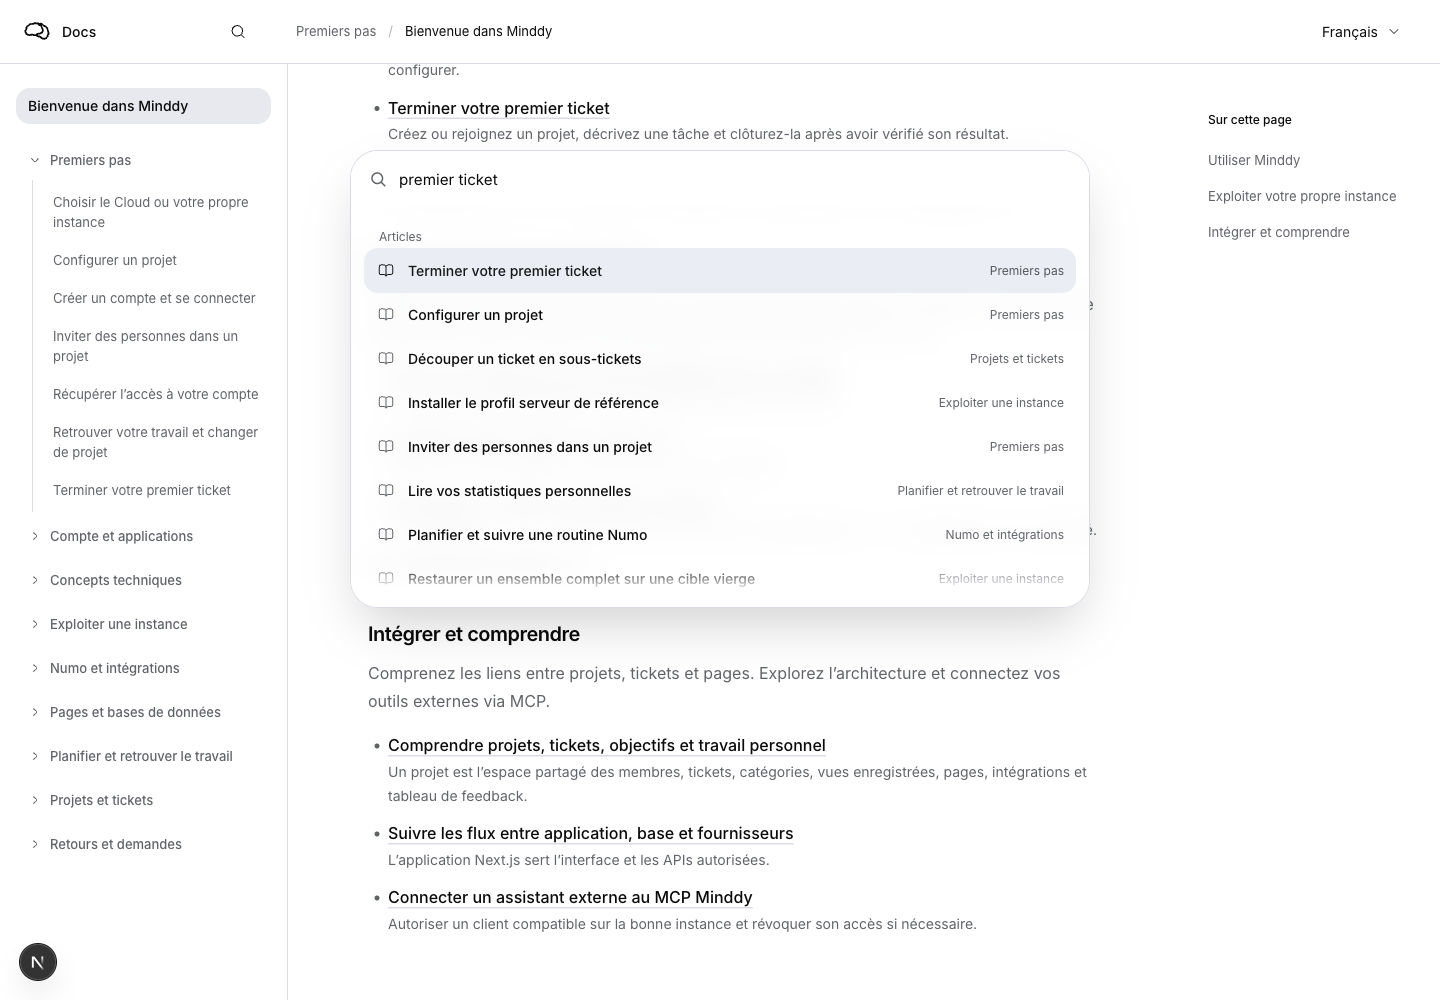
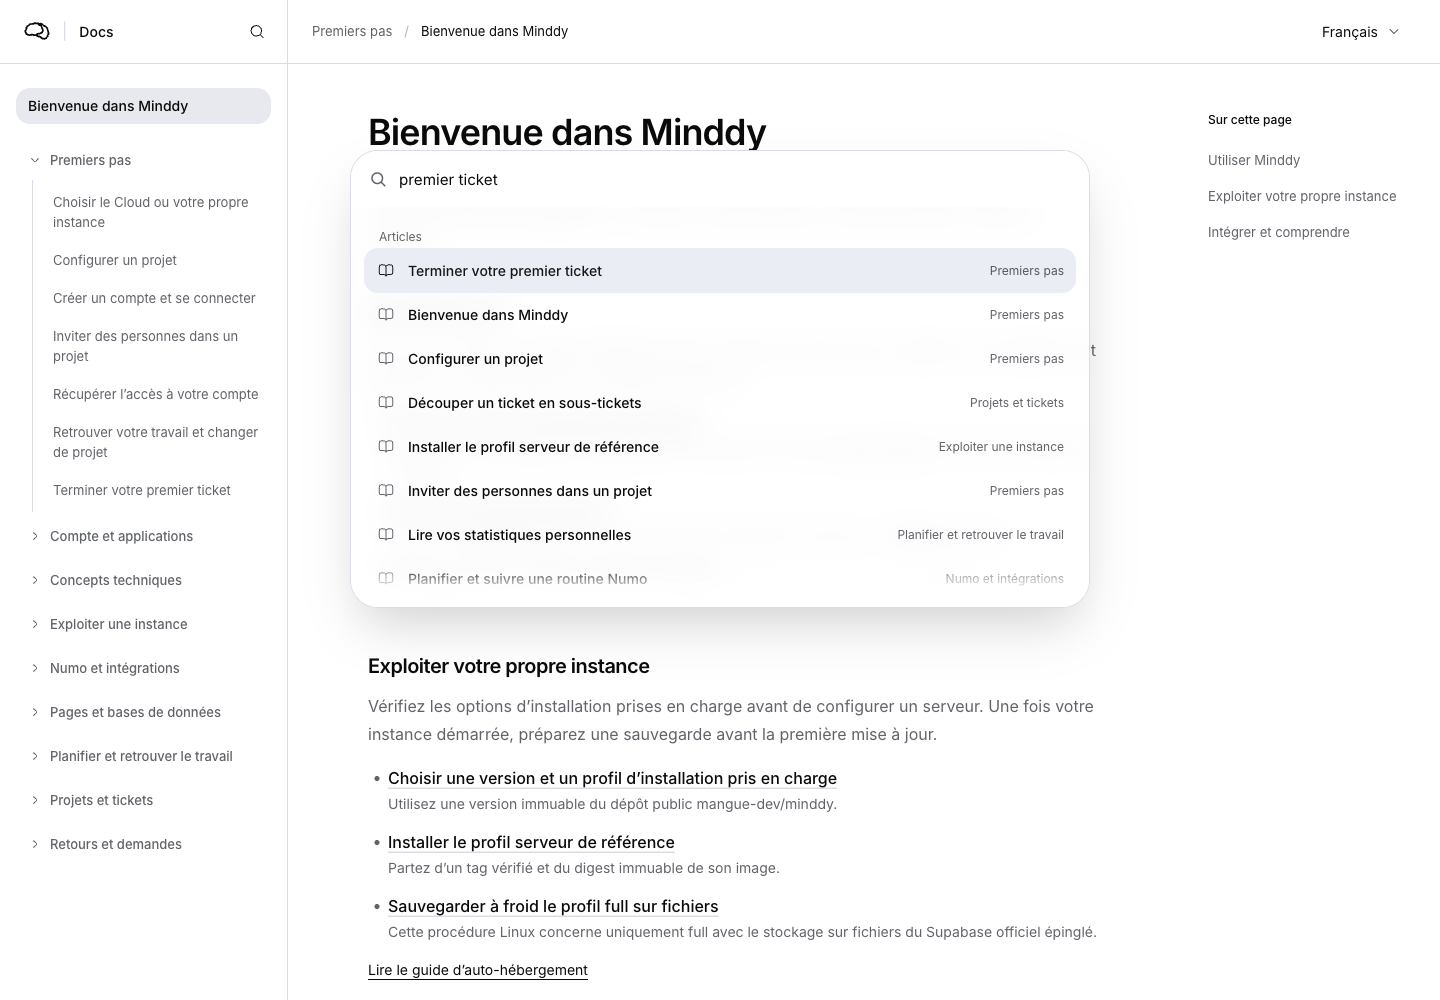
fix(docs): preserve topic navigation and align header dividers
Continue the sidebar divider through the navbar, bring search closer, and separate the logo from Docs. Remember topic folds across article and locale navigation, respecting manual closures and sharing state with mobile navigation.

Verified with 67 targeted tests, lint, typecheck, the owned-English check, and desktop/mobile browser checks. Refresh the documentation screenshots.

diff --git a/components/documentation/documentation-navigation.tsx b/components/documentation/documentation-navigation.tsx
@@ -1,6 +1,7 @@
 "use client";
 
 import { useEffect, useMemo, useState } from "react";
+import Link from "next/link";
 import { HugeiconsIcon } from "@hugeicons/react";
 import { ArrowRight01Icon, BookOpen01Icon, Cancel01Icon, Menu01Icon, Search01Icon } from "@hugeicons/core-free-icons";
 import { Button, Collapsible, CollapsibleContent, CollapsibleTrigger, Sheet, SheetClose, SheetContent, SheetTitle, SheetTrigger, Tooltip, TooltipContent, TooltipTrigger } from "mangue-ui";
@@ -8,6 +9,7 @@ import type { Locale } from "@/i18n/config";
 import type { DocumentationArticle, DocumentationSearchEntry } from "@/lib/documentation";
 import { documentationPath, searchDocumentation } from "@/lib/documentation-core.mjs";
 import { CommandPalette, usePaletteStore } from "@/lib/command-palette";
+import { useDocumentationTopics } from "@/lib/use-documentation-topics";
 import "@/components/command-palette.css";
 
 export type DocumentationNavigationEntry = Pick<DocumentationArticle, "id" | "title" | "topic">;
@@ -24,19 +26,24 @@ export function DocumentationMobileContents({ sections, label }: { sections: Doc
   </Collapsible>;
 }
 
-export function DocumentationSidebar({ articles, locale, currentId, labels }: {
+export function DocumentationSidebar({ articles, locale, currentId, labels, onNavigate }: {
   articles: DocumentationNavigationEntry[];
   locale: Locale;
   currentId: string | null;
   labels: { topics: string; welcome: string; close: string };
+  onNavigate?: () => void;
 }) {
   const startTopic = articles.find(article => article.id === "first-project")?.topic;
   const topics = [...new Set(articles.map(article => article.topic))].sort((a, b) =>
     a === startTopic ? -1 : b === startTopic ? 1 : a.localeCompare(b, locale));
+  // Article IDs keep topic preferences stable when the reader changes language.
+  const topicKeys = new Map(topics.map(topic => [topic, articles.filter(article => article.topic === topic).map(article => article.id).sort()[0]]));
+  const activeTopic = articles.find(article => article.id === currentId)?.topic;
+  const folds = useDocumentationTopics(activeTopic ? topicKeys.get(activeTopic) : undefined);
   return <nav aria-label={labels.topics} className="space-y-1 px-4 py-6">
-    <a href={documentationPath(null, locale)} aria-current={currentId === null ? "page" : undefined}
-      className="mb-4 block rounded-md px-3 py-2 text-sm font-medium text-muted-foreground hover:bg-muted hover:text-foreground aria-[current=page]:bg-muted aria-[current=page]:text-foreground focus-visible:outline-2 focus-visible:outline-ring">{labels.welcome}</a>
-    {topics.map(topic => <Collapsible key={topic}>
+    <Link href={documentationPath(null, locale)} prefetch={false} onNavigate={onNavigate} aria-current={currentId === null ? "page" : undefined}
+      className="mb-4 block rounded-md px-3 py-2 text-sm font-medium text-muted-foreground hover:bg-muted hover:text-foreground aria-[current=page]:bg-muted aria-[current=page]:text-foreground focus-visible:outline-2 focus-visible:outline-ring">{labels.welcome}</Link>
+    {topics.map(topic => <Collapsible key={topic} open={folds.isOpen(topicKeys.get(topic)!)} onOpenChange={open => folds.setOpen(topicKeys.get(topic)!, open)}>
       <CollapsibleTrigger className="group flex min-h-10 w-full items-center gap-2 rounded-md px-3 py-2 text-left text-[13px] font-medium text-muted-foreground transition-colors hover:bg-muted hover:text-foreground focus-visible:outline-2 focus-visible:outline-ring">
         <HugeiconsIcon icon={ArrowRight01Icon} className="size-3.5 shrink-0 transition-transform duration-200 group-data-[state=open]:rotate-90 motion-reduce:transition-none" aria-hidden />
         <span className={articles.some(article => article.topic === topic && article.id === currentId) ? "text-foreground" : undefined}>{topic}</span>
@@ -44,8 +51,8 @@ export function DocumentationSidebar({ articles, locale, currentId, labels }: {
       <CollapsibleContent className="motion-reduce:animate-none">
         <ul className="ml-4 space-y-0.5 border-l border-border py-1 pl-2">
           {articles.filter(article => article.topic === topic).map(article => <li key={article.id}>
-            <a href={documentationPath(article.id, locale)} aria-current={article.id === currentId ? "page" : undefined}
-              className="block rounded-md px-3 py-2 text-[13px] leading-5 text-muted-foreground transition-colors hover:bg-muted hover:text-foreground aria-[current=page]:bg-muted aria-[current=page]:font-medium aria-[current=page]:text-foreground focus-visible:outline-2 focus-visible:outline-ring">{article.title}</a>
+            <Link href={documentationPath(article.id, locale)} prefetch={false} onNavigate={onNavigate} aria-current={article.id === currentId ? "page" : undefined}
+              className="block rounded-md px-3 py-2 text-[13px] leading-5 text-muted-foreground transition-colors hover:bg-muted hover:text-foreground aria-[current=page]:bg-muted aria-[current=page]:font-medium aria-[current=page]:text-foreground focus-visible:outline-2 focus-visible:outline-ring">{article.title}</Link>
           </li>)}
         </ul>
       </CollapsibleContent>
@@ -54,7 +61,8 @@ export function DocumentationSidebar({ articles, locale, currentId, labels }: {
 }
 
 export function DocumentationMobileNavigation(props: Parameters<typeof DocumentationSidebar>[0]) {
-  return <Sheet>
+  const [open, setOpen] = useState(false);
+  return <Sheet open={open} onOpenChange={setOpen}>
     <SheetTrigger asChild><Button variant="ghost" size="icon" aria-label={props.labels.topics} className="lg:hidden">
       <HugeiconsIcon icon={Menu01Icon} className="size-4" aria-hidden />
     </Button></SheetTrigger>
@@ -63,7 +71,7 @@ export function DocumentationMobileNavigation(props: Parameters<typeof Documenta
         <HugeiconsIcon icon={Cancel01Icon} className="size-4" aria-hidden />
       </Button></SheetClose>
       <SheetTitle className="px-7 pt-6 text-sm">{props.labels.topics}</SheetTitle>
-      <DocumentationSidebar {...props} />
+      <DocumentationSidebar {...props} onNavigate={() => setOpen(false)} />
     </SheetContent>
   </Sheet>;
 }

diff --git a/components/documentation/documentation-navigation.test.tsx b/components/documentation/documentation-navigation.test.tsx
@@ -1,0 +1,65 @@
+// @vitest-environment jsdom
+import { act } from "react";
+import { createRoot } from "react-dom/client";
+import { expect, it, vi } from "vitest";
+import { DocumentationSidebar, type DocumentationNavigationEntry } from "./documentation-navigation";
+
+vi.mock("@/lib/command-palette", () => ({ CommandPalette: () => null }));
+vi.mock("mangue-ui", () => import("mangue-ui/components/ui/collapsible"));
+vi.mock("@/components/command-palette.css", () => ({}));
+
+it("opens the current topic, remembers manual folds and shares them with mobile and translated navigation", async () => {
+  vi.stubGlobal("IS_REACT_ACT_ENVIRONMENT", true);
+  sessionStorage.clear();
+  const articles: DocumentationNavigationEntry[] = [
+    { id: "first-project", title: "First project", topic: "Get started" },
+    { id: "account-access", title: "Account access", topic: "Get started" },
+    { id: "create-an-issue", title: "Create an issue", topic: "Projects" },
+  ];
+  const labels = { topics: "Topics", welcome: "Welcome", close: "Close" };
+  const host = document.createElement("div");
+  document.body.append(host);
+  let root = createRoot(host);
+  const render = async (currentId: string | null, entries = articles) => {
+    await act(() => root.render(<DocumentationSidebar articles={entries} locale="en" currentId={currentId} labels={labels} />));
+  };
+  const trigger = (topic: string) => [...host.querySelectorAll("button")].find(button => button.textContent === topic)!;
+  try {
+    await render(null);
+    expect(trigger("Get started").getAttribute("aria-expanded")).toBe("false");
+    await render("first-project");
+    expect(trigger("Get started").getAttribute("aria-expanded")).toBe("true");
+    await render("account-access");
+    expect(trigger("Get started").getAttribute("aria-expanded")).toBe("true");
+    await render("create-an-issue");
+    expect(trigger("Get started").getAttribute("aria-expanded")).toBe("true");
+    expect(trigger("Projects").getAttribute("aria-expanded")).toBe("true");
+
+    await act(() => trigger("Get started").click());
+    await render("first-project");
+    expect(trigger("Get started").getAttribute("aria-expanded")).toBe("false");
+    expect(JSON.parse(sessionStorage.getItem("minddy-docs-topics")!)["account-access"]).toBe(false);
+    await act(() => root.unmount());
+    root = createRoot(host);
+    await render("account-access", articles.map(article => ({ ...article, topic: article.topic === "Get started" ? "Getting started" : article.topic })));
+    expect(trigger("Getting started").getAttribute("aria-expanded")).toBe("false");
+    await act(() => trigger("Getting started").click());
+    await render("first-project", articles.map(article => ({ ...article, topic: article.topic === "Get started" ? "Getting started" : article.topic })));
+    expect(trigger("Getting started").getAttribute("aria-expanded")).toBe("true");
+
+    const mobileHost = document.createElement("div");
+    host.append(mobileHost);
+    const mobileRoot = createRoot(mobileHost);
+    try {
+      await act(() => mobileRoot.render(<DocumentationSidebar articles={articles} locale="en" currentId="first-project" labels={labels} />));
+      const mobileTrigger = [...mobileHost.querySelectorAll("button")].find(button => button.textContent === "Get started")!;
+      expect(mobileTrigger.getAttribute("aria-expanded")).toBe("true");
+      await act(() => mobileTrigger.click());
+      expect(trigger("Getting started").getAttribute("aria-expanded")).toBe("false");
+    } finally { await act(() => mobileRoot.unmount()); }
+  } finally {
+    await act(() => root.unmount());
+    host.remove();
+    vi.unstubAllGlobals();
+  }
+});

diff --git a/lib/use-documentation-topics.ts b/lib/use-documentation-topics.ts
@@ -1,0 +1,43 @@
+"use client";
+
+import { useEffect, useSyncExternalStore } from "react";
+
+const STORAGE_KEY = "minddy-docs-topics";
+const EMPTY: Record<string, boolean> = {};
+let preferences = EMPTY;
+let initialized = false;
+const listeners = new Set<() => void>();
+
+function subscribe(listener: () => void) {
+  listeners.add(listener);
+  return () => { listeners.delete(listener); };
+}
+
+function publish(next: Record<string, boolean>) {
+  preferences = next;
+  try { sessionStorage.setItem(STORAGE_KEY, JSON.stringify(next)); } catch { /* Navigation still works when browser storage is unavailable. */ }
+  listeners.forEach(listener => listener());
+}
+
+/** Remember folds for this tab, shared by desktop and mobile navigation. */
+export function useDocumentationTopics(activeTopic: string | undefined) {
+  const snapshot = useSyncExternalStore(subscribe, () => preferences, () => EMPTY);
+  useEffect(() => {
+    if (!initialized) {
+      initialized = true;
+      try {
+        const stored: unknown = JSON.parse(sessionStorage.getItem(STORAGE_KEY) ?? "{}");
+        if (stored && typeof stored === "object" && !Array.isArray(stored)) {
+          preferences = Object.fromEntries(Object.entries(stored).filter(([, value]) => typeof value === "boolean"));
+        }
+      } catch { /* Ignore unavailable storage and stale preferences. */ }
+      listeners.forEach(listener => listener());
+    }
+    if (activeTopic && preferences[activeTopic] === undefined) publish({ ...preferences, [activeTopic]: true });
+  }, [activeTopic]);
+
+  return {
+    isOpen: (topic: string) => snapshot[topic] ?? false,
+    setOpen: (topic: string, open: boolean) => publish({ ...preferences, [topic]: open }),
+  };
+}

diff --git a/components/documentation/documentation-shell.tsx b/components/documentation/documentation-shell.tsx
@@ -32,12 +32,12 @@ export async function DocumentationShell({ articles, locale, currentId, title, t
   return <>
     <a href="#documentation-article" className="sr-only z-50 rounded bg-background p-3 focus:not-sr-only focus:fixed focus:top-2">{t("skip")}</a>
     <header className="fixed inset-x-0 top-0 z-30 flex h-24 items-center border-b border-border bg-background px-3 pb-8 sm:h-16 sm:px-6 sm:pb-0">
-      <div className="flex shrink-0 items-center gap-2 lg:w-[15.5rem] lg:gap-4">
+      <div className="flex shrink-0 items-center gap-2 lg:-ml-6 lg:h-16 lg:w-72 lg:gap-4 lg:border-r lg:border-border lg:pl-6 lg:pr-3">
         <DocumentationMobileNavigation {...navigation} />
         <a href={documentationPath(null, locale)} className="flex items-center gap-3 rounded focus-visible:outline-2 focus-visible:outline-ring">
-          <MinddyLogo className="h-6" /><span className="text-sm font-medium">{t("navTitle")}</span>
+          <MinddyLogo className="h-6" /><span aria-hidden className="text-border">|</span><span className="text-sm font-medium">{t("navTitle")}</span>
         </a>
-        <div className="ml-2 lg:ml-auto lg:pr-4"><DocumentationSearch articles={searchArticles}
+        <div className="ml-2 lg:ml-auto"><DocumentationSearch articles={searchArticles}
           locale={locale} initialQuery={initialQuery} labels={{ search: t("search"), articles: t("articles"), noResults: t("noResults"), open: t("openArticle") }} /></div>
       </div>
       <nav aria-label={t("breadcrumb")} className="absolute inset-x-6 bottom-0 flex h-8 min-w-0 items-center gap-3 text-xs sm:static sm:mx-6 sm:h-auto sm:flex-1 sm:text-[13px]">
